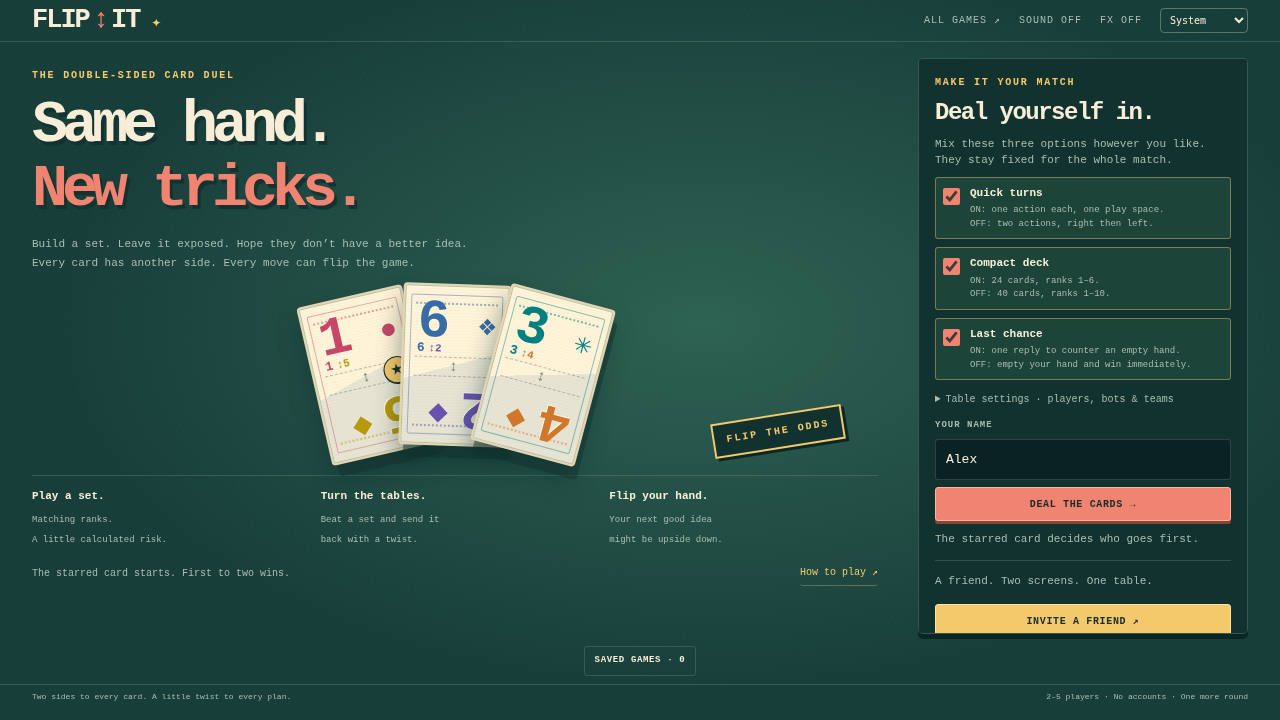
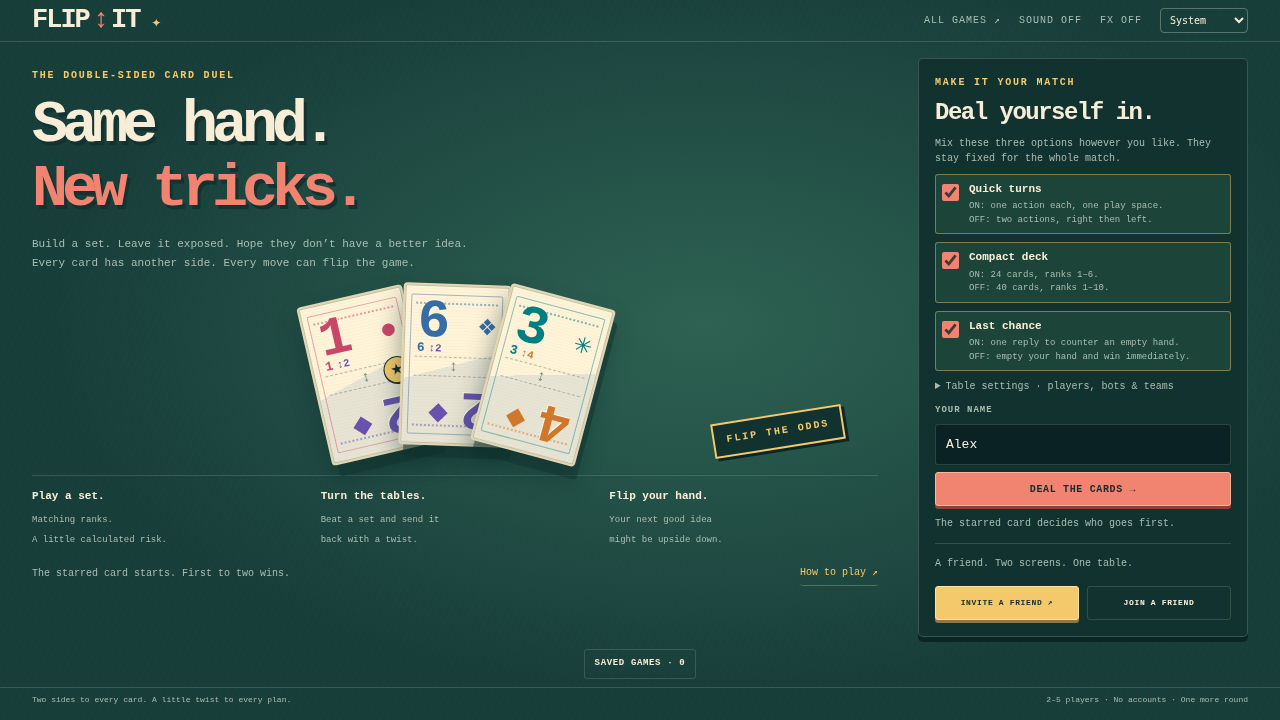
Fit the simplified lobby on laptop screens and conserve its unique star

diff --git a/flip-it/style.css b/flip-it/style.css
@@ -48,5 +48,6 @@ html[data-game=flip-it][data-color-theme=light]{color-scheme:light;--paper:#233d
 
 .pair-output-grid{display:grid;grid-template-columns:minmax(0,1fr) 170px;align-items:center;gap:18px;margin:14px 0}.pair-output-grid .qr-wrap{margin:0}.pair-output-grid textarea{height:110px;min-height:80px}.pair-output-grid .label,.pair-output-grid .field-label{margin-top:0}@media(max-width:540px){.pair-output-grid{grid-template-columns:1fr}.pair-output-grid .qr-wrap{width:170px;justify-self:center}}
 .starter-star{position:absolute;right:7%;top:42%;display:grid;place-items:center;width:calc(var(--card-w)*.25);height:calc(var(--card-w)*.25);background:#f4c96c;color:#182c2c;border:1px solid #182c2c;border-radius:50%;font-size:calc(var(--card-w)*.19);line-height:1;z-index:3;box-shadow:0 1px 0 #182c2c}.round-starter{color:var(--gold);overflow:hidden;text-overflow:ellipsis;white-space:nowrap;max-width:45%;font-weight:800}.deal-note{margin:10px 0 0}.card-emblem::after{content:'◆'}
-@media(min-width:1000px) and (max-height:800px){body:not(.in-game) .topbar{height:42px}body:not(.in-game) main{padding-top:16px;padding-bottom:8px}.menu-layout{gap:40px}.menu-layout .intro{padding-top:10px}.intro h1{font-size:60px;margin:10px 0 14px}.intro-copy{font-size:11px;max-width:70ch;line-height:1.7}.hero-art{height:180px}.hero-art .flip-card{--card-w:108px}.feature-line{padding-top:12px}.feature-line b{font-size:11px;margin-bottom:5px}.feature-line span{font-size:9px}.menu-bottom{margin-top:12px}.menu-layout>.panel{padding:16px;max-height:calc(100dvh - 144px);overflow:auto;overscroll-behavior:contain}.menu-layout .panel-title{font-size:24px}.menu-layout .panel .button{min-height:34px;padding:8px 12px;margin-top:7px}.menu-layout .panel .small{margin-bottom:8px}.menu-layout .panel .divider{margin:12px 0}.menu-layout .lobby-ai{margin:12px 0}.replay-library-link{margin-top:12px}.footer{padding-top:6px;padding-bottom:6px;font-size:8px}}
+@media(min-width:1000px) and (max-height:800px){body:not(.in-game) .topbar{height:42px}body:not(.in-game) main{padding-top:16px;padding-bottom:8px}.menu-layout{gap:40px}.menu-layout .intro{padding-top:10px}.intro h1{font-size:60px;margin:10px 0 14px}.intro-copy{font-size:11px;max-width:70ch;line-height:1.7}.hero-art{height:180px}.hero-art .flip-card{--card-w:108px}.feature-line{padding-top:12px}.feature-line b{font-size:11px;margin-bottom:5px}.feature-line span{font-size:9px}.menu-bottom{margin-top:12px}.menu-layout>.panel{padding:16px;max-height:calc(100dvh - 128px);overflow:auto;overscroll-behavior:contain}.menu-layout .panel-title{font-size:24px}.menu-layout .panel .button{min-height:34px;padding:8px 12px;margin-top:7px}.menu-layout .panel .small{margin-bottom:8px}.menu-layout .panel .divider{margin:12px 0}.menu-layout .lobby-ai{margin:12px 0}.replay-library-link{margin-top:12px}.footer{padding-top:6px;padding-bottom:6px;font-size:8px}}
 @media(min-width:1000px) and (max-height:800px){.menu-layout .option{padding:6px}.menu-layout .panel>[data-action=host],.menu-layout .panel>[data-action=join]{width:calc(50% - 4px);font-size:8px}.menu-layout .panel>[data-action=host]{margin-right:8px}}
+@media(min-width:1000px) and (max-height:800px){.menu-layout .panel .label{margin-top:10px}.menu-layout .lobby-ai{margin:8px 0}.menu-layout .panel .small{font-size:10px}}

diff --git a/flip-it/src/app.js b/flip-it/src/app.js
@@ -108,7 +108,7 @@ function render() {
 function renderMenu() {
   const online = mode === 'online' && connected(), guest = online && session.seat === 1;
   const options = guest ? session.view.options : prefs.options;
-  const heroes = [{id:'hero1', ends:[1,5], face:0,star:true}, {id:'hero2', ends:[6,2], face:0}, {id:'hero3', ends:[3,4], face:0}];
+  const heroes = [{id:'hero1', ends:[1,2], face:0,star:true}, {id:'hero2', ends:[6,2], face:0}, {id:'hero3', ends:[3,4], face:0}];
   let html = '<div class="menu-layout"><section class="intro"><p class="eyebrow">THE DOUBLE-SIDED CARD DUEL</p><h1>Same hand.<br><em>New tricks.</em></h1><p class="intro-copy">Build a set. Leave it exposed. Hope they don’t have a better idea.<br>Every card has another side. Every move can flip the game.</p><div class="hero-art" aria-label="Illustrated double-value cards">' + heroes.map((c,i) => cardHtml(c, false, false, [-13,2,15][i])).join('') + '<span class="hero-stamp">FLIP THE ODDS</span></div><div class="feature-line"><div><b>Play a set.</b><span>Matching ranks.<br>A little calculated risk.</span></div><div><b>Turn the tables.</b><span>Beat a set and send it<br>back with a twist.</span></div><div><b>Flip your hand.</b><span>Your next good idea<br>might be upside down.</span></div></div><div class="menu-bottom"><span>The starred card starts. First to two wins.</span><button class="text-button" data-action="rules">How to play ↗</button></div></section><aside class="panel"><p class="eyebrow">MAKE IT YOUR MATCH</p><h2 class="panel-title">Deal yourself in.</h2><p class="small">Mix these three options however you like. They stay fixed for the whole match.</p><div class="option-list">';
   for (const key of OPTION_KEYS) html += '<label class="option" for="option-' + key + '"><input type="checkbox" id="option-' + key + '" data-option="' + key + '" ' + (options[key] ? 'checked ' : '') + (guest ? 'disabled ' : '') + '><span><b>' + optionInfo[key][0] + '</b><small>' + optionInfo[key][1] + '<br>' + optionInfo[key][2] + '</small></span></label>';
   html += '</div><details class="lobby-ai"><summary>Table settings · players, bots & teams</summary>'+aiLobby(guest)+(!online?'<label class="team-choice"><input id="lobby-team" type="checkbox" '+(prefs.team?'checked':'')+'><span>Team up against the bots<small>Turn on before inviting a friend.</small></span></label>':'')+'</details><label class="label" for="player-name">YOUR NAME</label><input id="player-name" maxlength="24" value="' + esc(name()) + '" autocomplete="nickname">';

diff --git a/flip-it/src/rules.js b/flip-it/src/rules.js
@@ -213,7 +213,9 @@ export function previewMove(view, seat, action) {
 }
 export function assertState(state) {
   const deck = makeDeck(state.options.compactDeck), seen = new Set(), counts = new Set();
-  for (const card of [...state.hands.flat(), ...state.table.flat(2), ...state.discard]) {
+  const cards=[...state.hands.flat(), ...state.table.flat(2), ...state.discard];
+  if(state.firstPlayer!==undefined&&cards.filter(c=>c.star).length!==1)throw new Error('The unique starred card disappeared.');
+  for (const card of cards) {
     const source = deck.find(c => c.id === card.id);
     if (!source || seen.has(card.id) || ![0, 1].includes(card.face) || source.ends.some((n, i) => n !== card.ends[i]) || card.star !== undefined && card.star !== source.star) throw new Error('Card conservation failed.');
     seen.add(card.id);
